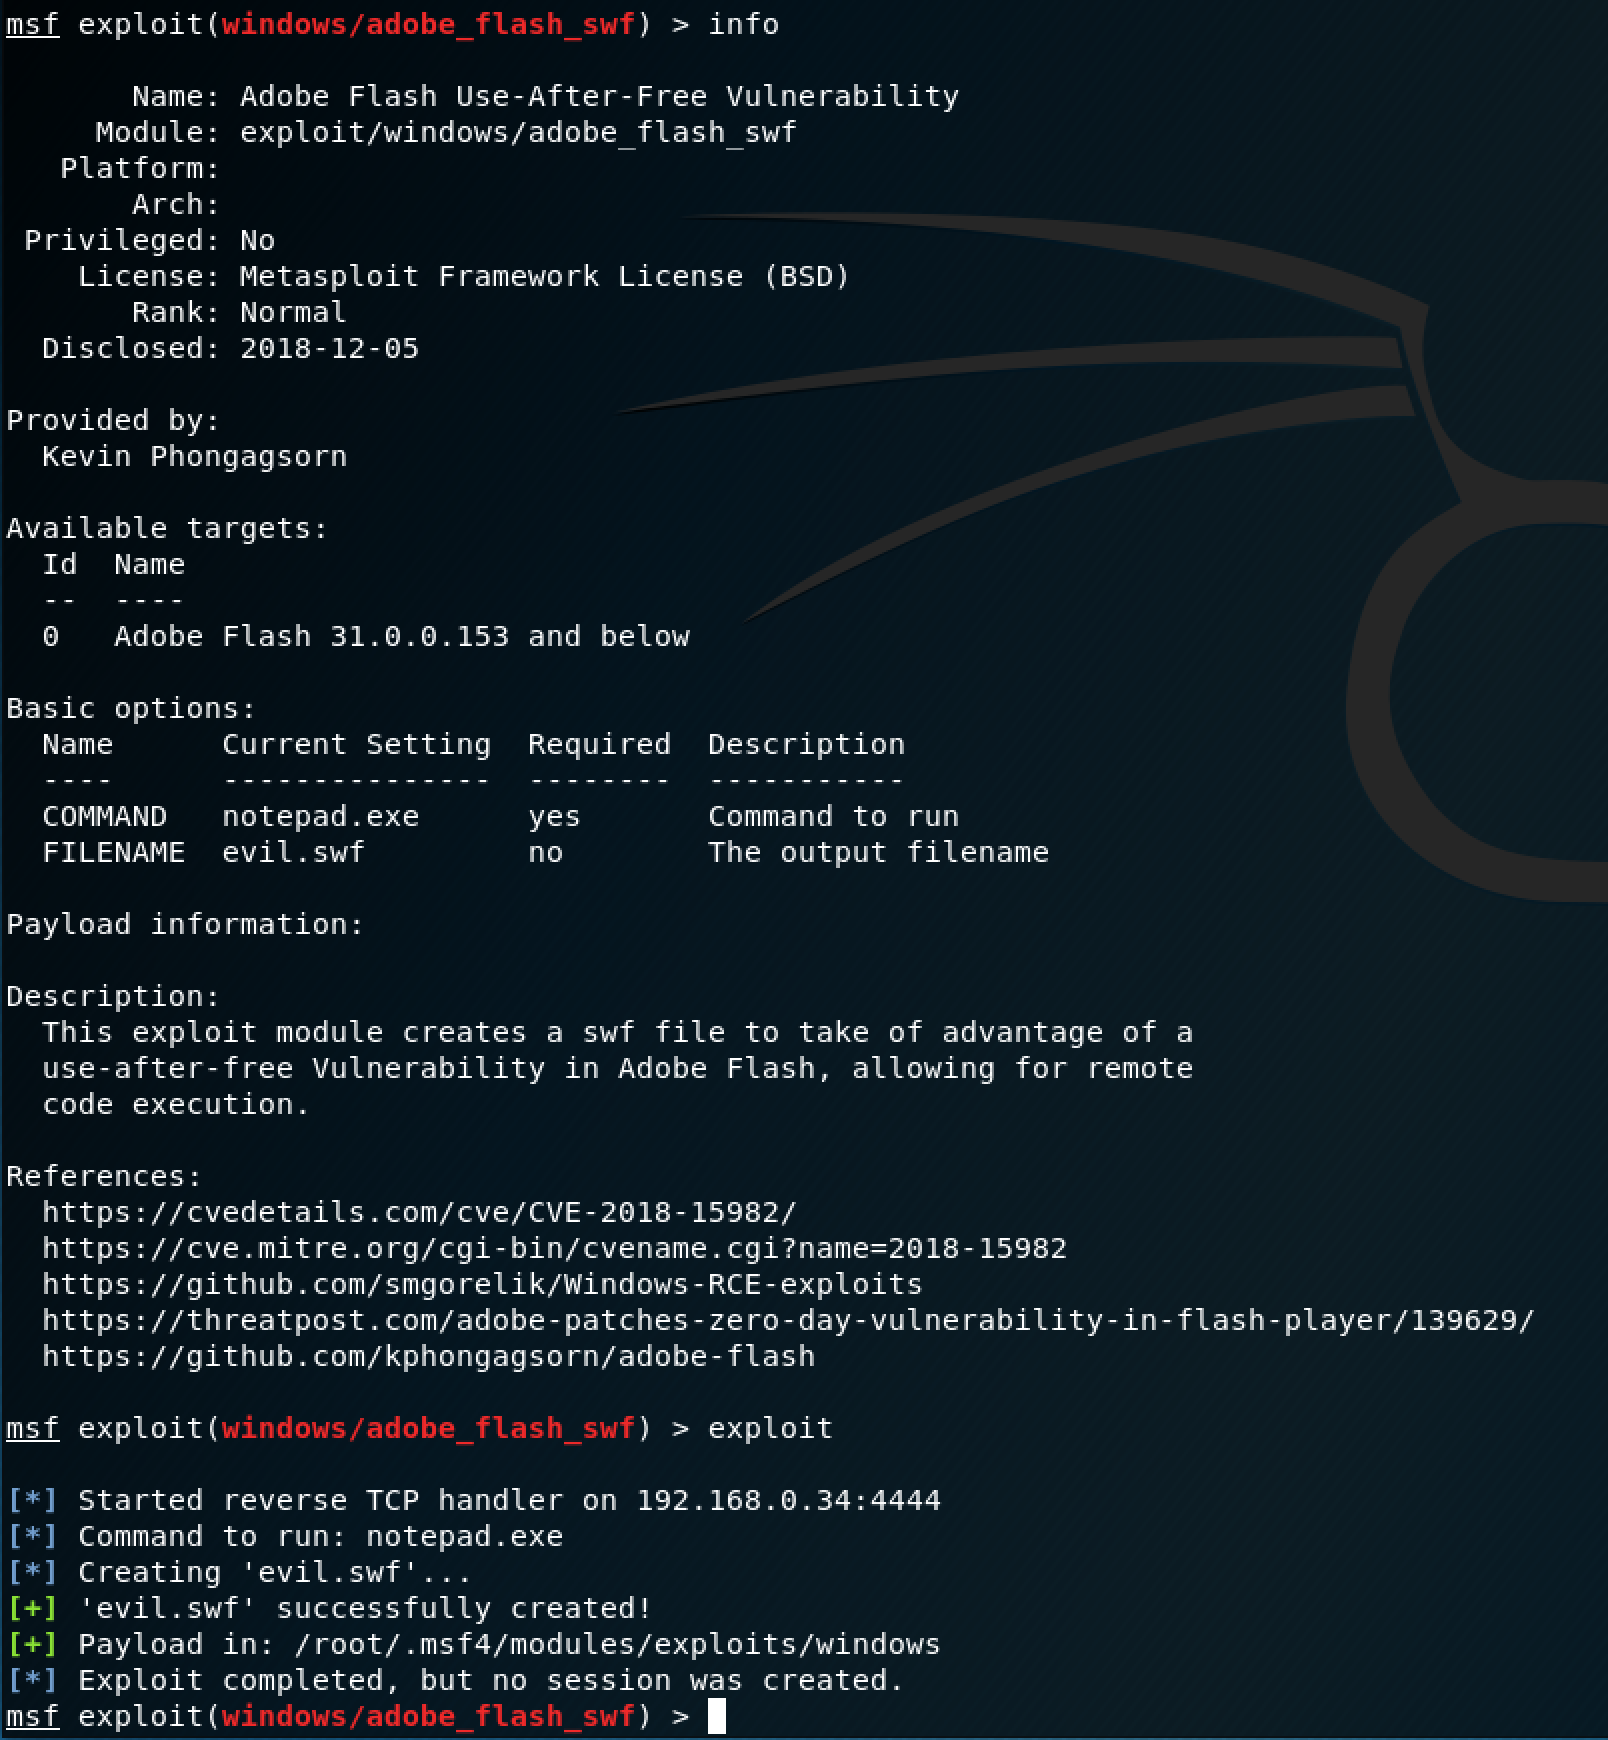
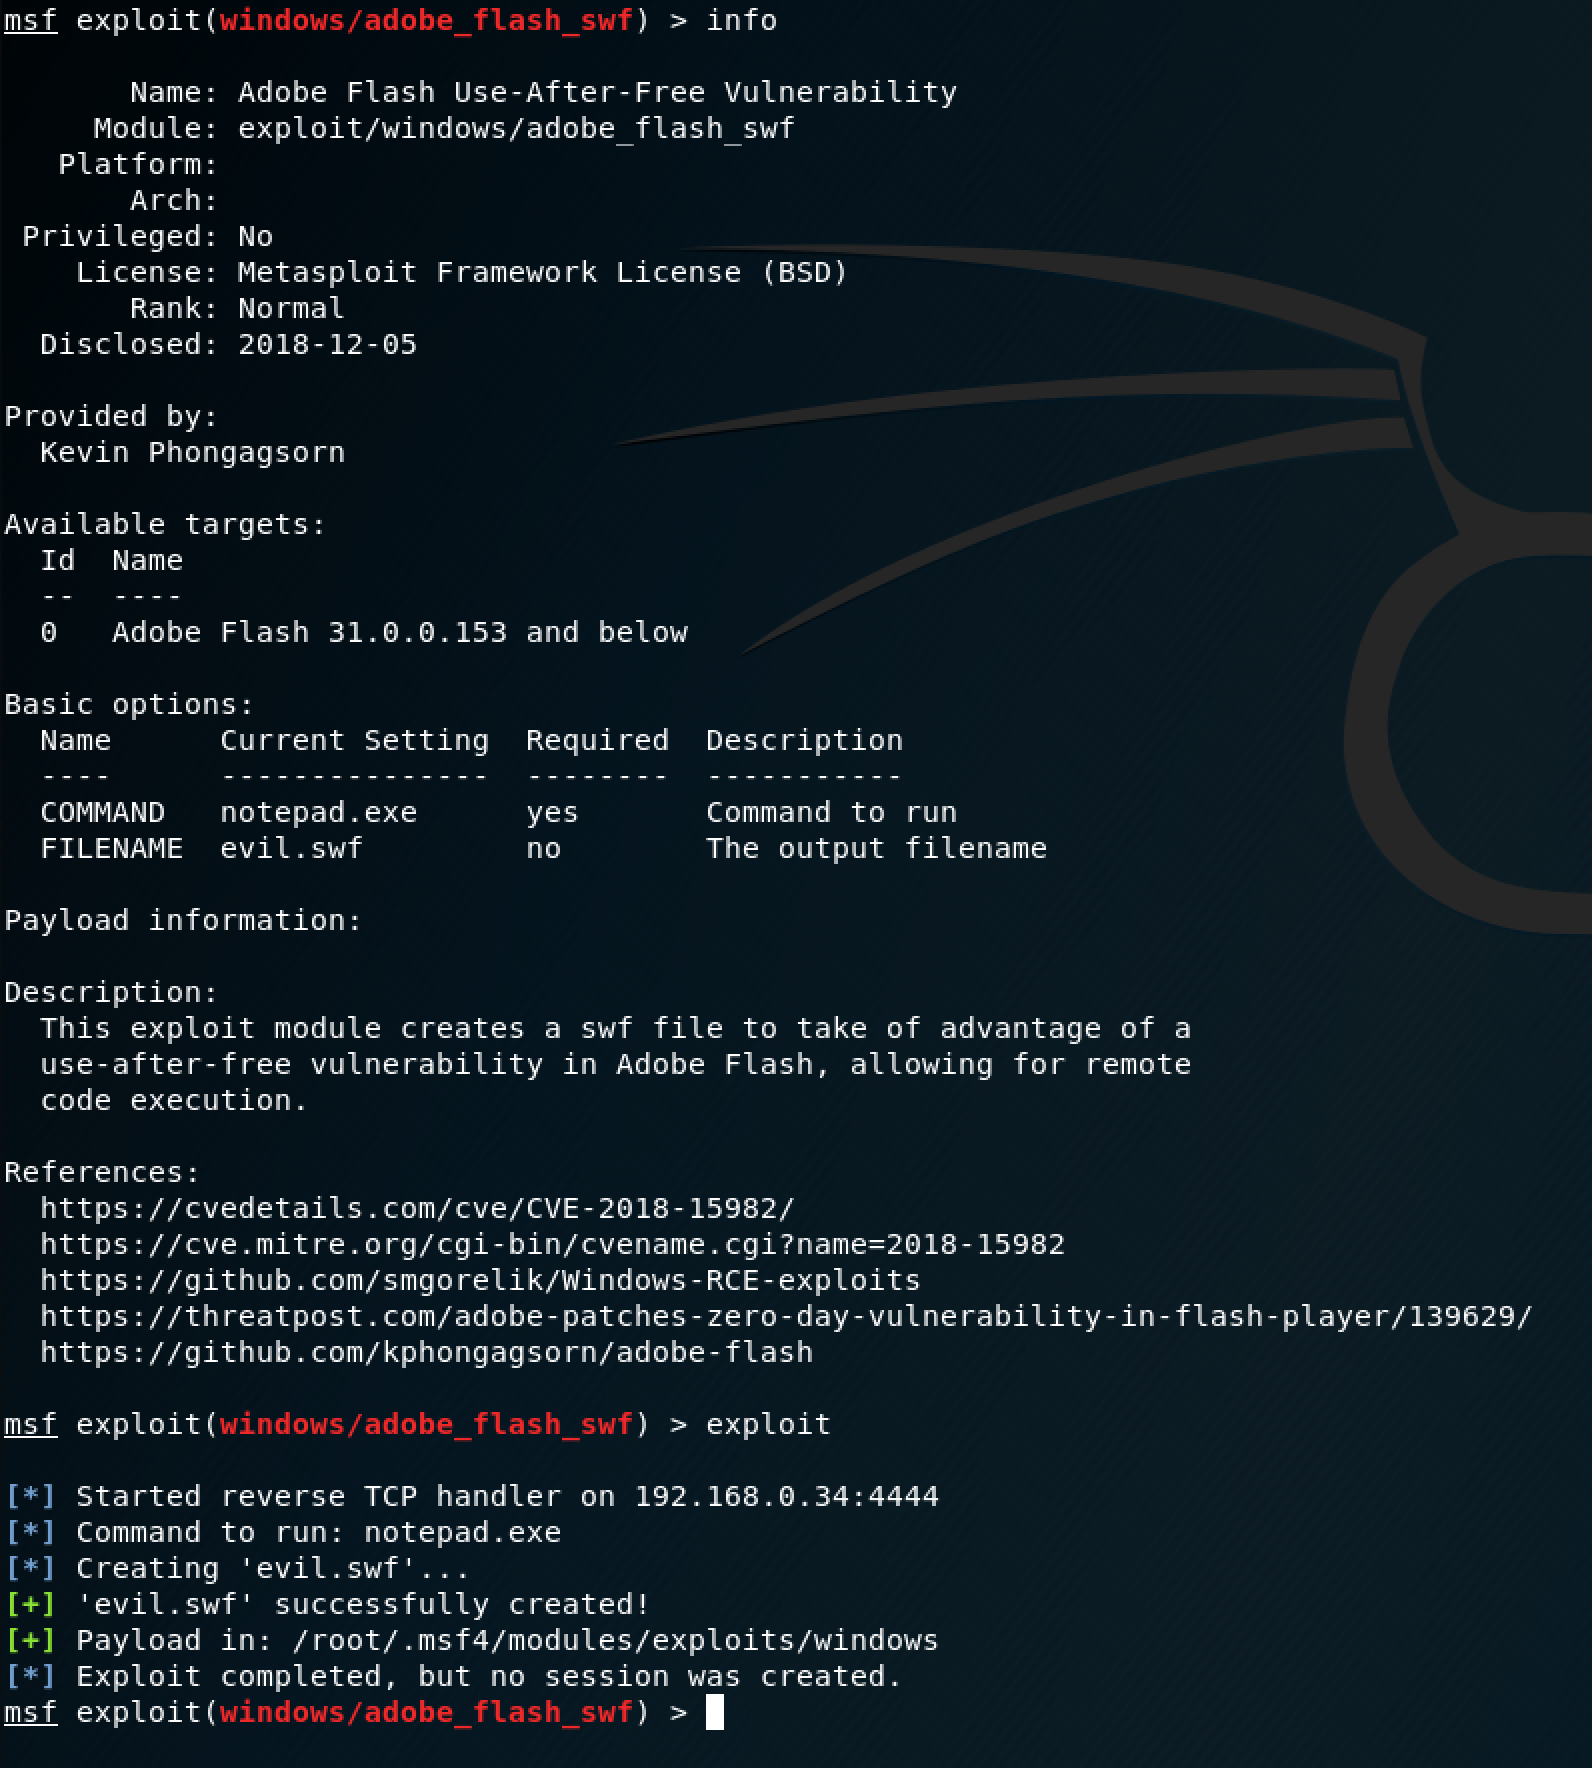
updated metasploit module and screenshots

Changed region(s): [[0.0, 0.0, 1.0, 1.0], [0.277, 0.1241, 1.0, 0.4345], [0.8926, 0.4655, 1.0, 0.5276]]

diff --git a/metasploit_module/adobe_flash_swf.rb b/metasploit_module/adobe_flash_swf.rb
@@ -13,7 +13,7 @@ class MetasploitModule < Msf::Exploit::Remote
         info,
         'Name'           => 'Adobe Flash Use-After-Free Vulnerability',
         'Description'    => %q(
-            This exploit module creates a swf file to take of advantage of a use-after-free Vulnerability in Adobe Flash, allowing for remote code execution.
+            This exploit module creates a swf file to take of advantage of a use-after-free vulnerability in Adobe Flash, allowing for remote code execution.
         ),
         'License'        => MSF_LICENSE,
         'Author'         => ['Kevin Phongagsorn'],
